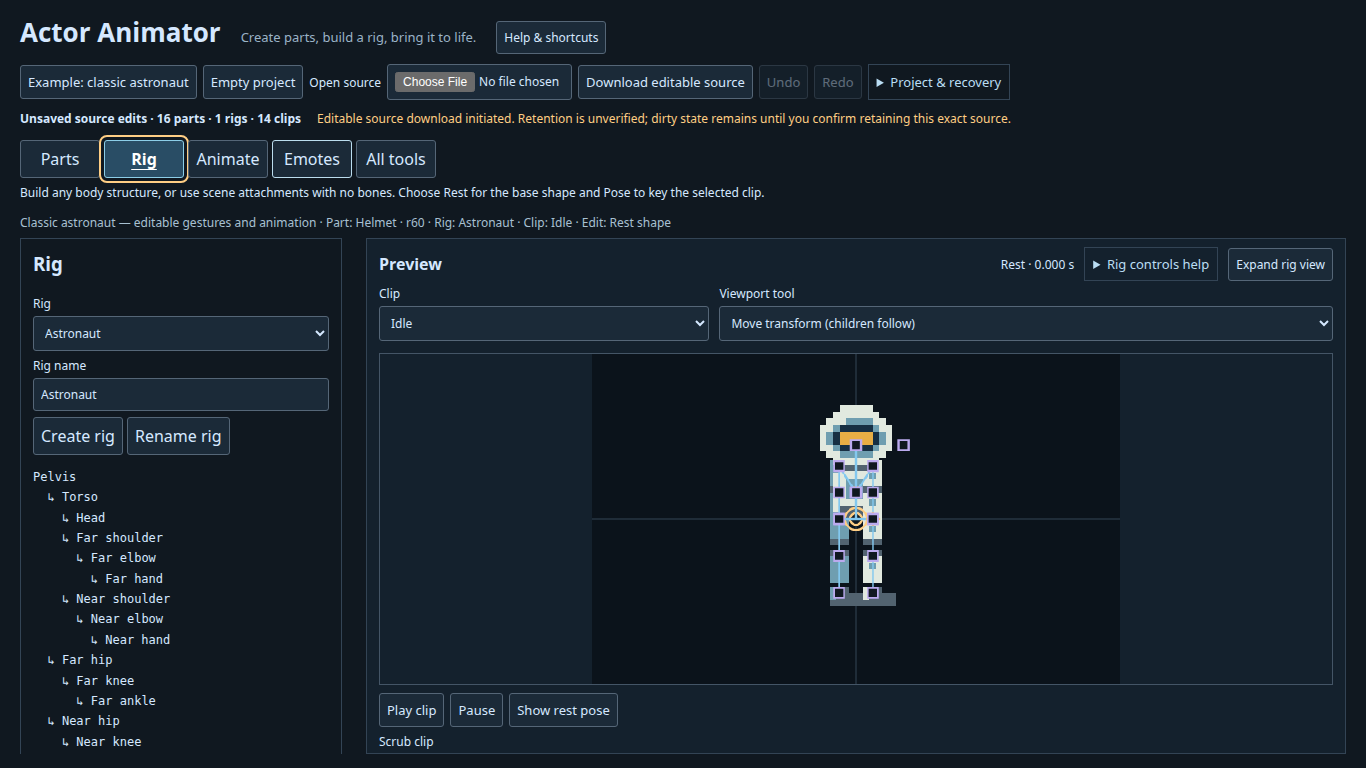
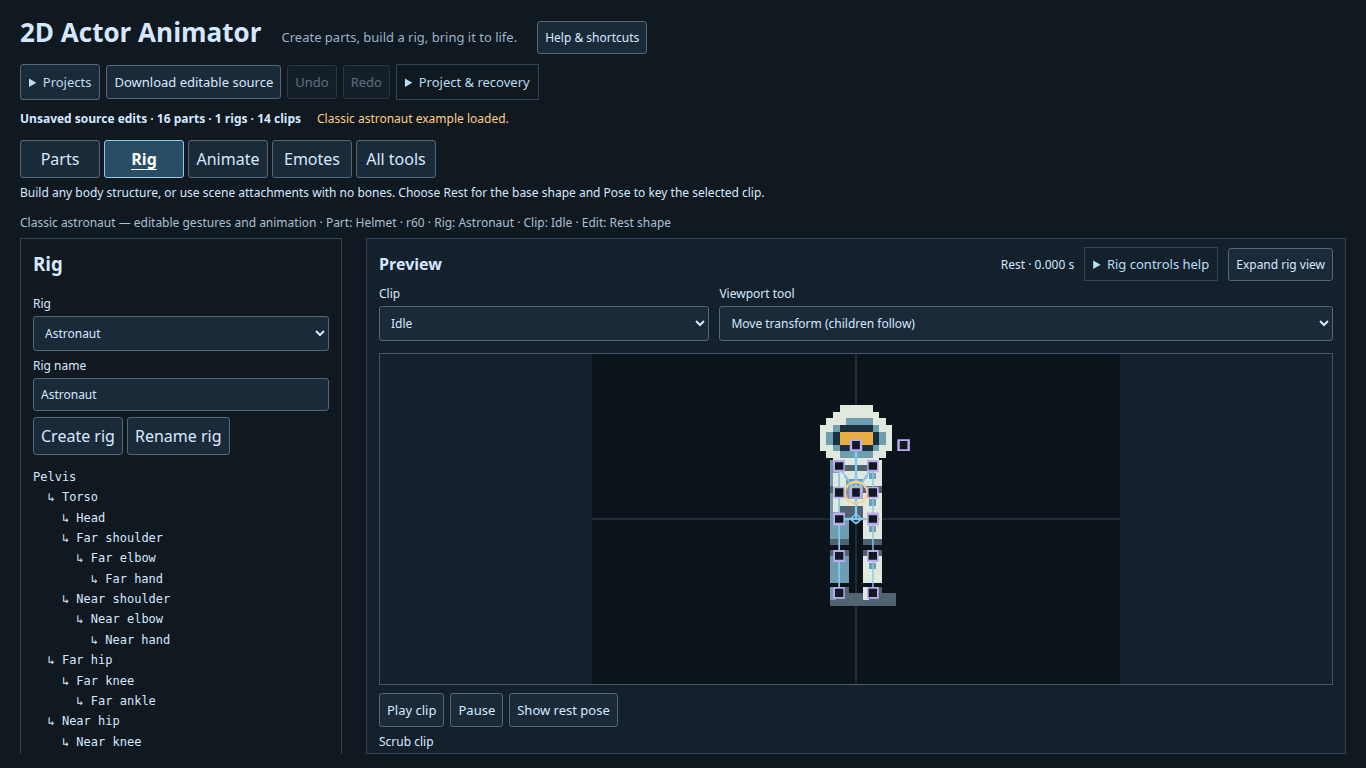
feat: improve preview zoom and name 2D Actor Animator

Changed region(s): [[0.0307, 0.0938, 0.7379, 0.1875], [0.0, 0.0312, 0.4612, 0.0625], [0.6149, 0.625, 0.6457, 0.6875]]

diff --git a/tests/browser/actor-foundation.spec.ts b/tests/browser/actor-foundation.spec.ts
@@ -49,6 +49,7 @@ async function save(page: Page): Promise<{ text: string; source: ActorProject }>
   const text = readFileSync(path!, 'utf8'); return { text, source: JSON.parse(text) as ActorProject };
 }
 async function open(page: Page, source: ActorProject | string, name = 'combined.actorproject') {
+  await page.locator('#preview-zoom').selectOption('16');
   await page.locator('#open').setInputFiles({ name, mimeType: 'application/json', buffer: Buffer.from(typeof source === 'string' ? source : JSON.stringify(source)) });
   await expect(page.locator('#message')).toHaveText('Opened complete editable source.');
 }
@@ -65,7 +66,7 @@ function closeMatrix(actual: number[], expected: number[]) { expect(actual).toHa
 
 test('draw → arbitrary three-node assembly/socket → two poses → intentional revision → combined reopen', async ({ page }, info) => {
   const errors: string[] = [], requests: string[] = []; page.on('pageerror', e => errors.push(e.message)); page.on('request', r => requests.push(r.url()));
-  await page.goto('/actor-tools.html'); await page.getByRole('button', { name: 'All tools', exact: true }).click(); await createPart(page); await dot(page, 1, 0); await dot(page, 1, 1); await dot(page, 2, 1);
+  await page.goto('/actor-tools.html'); await page.getByRole('button', { name: 'All tools', exact: true }).click(); await page.locator('#preview-zoom').selectOption('16'); await createPart(page); await dot(page, 1, 0); await dot(page, 1, 1); await dot(page, 2, 1);
   await field(page, 'pivot-x', .5); await field(page, 'pivot-y', .5); await field(page, 'units', .25); await click(page, 'pivot');
   await field(page, 'rig-name', 'Kite colony'); await click(page, 'add-rig');
   await field(page, 'item-name', 'Whorl / 🪼'); await field(page, 'rest-x', 2); await field(page, 'rest-y', 3); await click(page, 'add-item'); const root = await page.locator('#items').inputValue();
@@ -86,7 +87,7 @@ test('draw → arbitrary three-node assembly/socket → two poses → intentiona
   expect(edited.parts[0]).toEqual(original); expect(edited.parts).toHaveLength(2); expect(edited.attachments).toEqual(assembled.attachments);
   await page.locator('#item-kind').selectOption('attachment'); await expect(page.locator('#revision')).toContainText(`r${original.revision}`); await click(page, 'accept-part');
   const combined = await save(page); expect(combined.source.attachments[0]!.partId).toBe(edited.parts[1]!.id); expect(combined.source.parts[1]!.revision).toBe(original.revision + 1);
-  await expect(page.locator('#state')).toContainText('Unsaved'); await click(page, 'retained'); await disposePage(page); await click(page, 'reopen'); await page.getByRole('button', { name: 'All tools', exact: true }).click(); await open(page, combined.text);
+  await expect(page.locator('#state')).toContainText('Unsaved'); await click(page, 'retained'); await disposePage(page); await click(page, 'reopen'); await page.getByRole('button', { name: 'All tools', exact: true }).click(); await page.locator('#preview-zoom').selectOption('16'); await open(page, combined.text);
   expect((await save(page)).text).toBe(combined.text); await seek(page, 1); closeMatrix(await matrix(page), [0, -4, 4, 0, 344, 128]);
   await page.locator('#assembly').screenshot({ path: info.outputPath('unconventional-assembly.png') });
   expect(errors).toEqual([]); expect(requests.some(u => /universe|world-save|\.wasm/.test(u))).toBe(false); await expect(page.locator('#flight-view')).toHaveCount(0);
@@ -94,7 +95,7 @@ test('draw → arbitrary three-node assembly/socket → two poses → intentiona
 });
 
 test('zero-bone attachments have linear/step boundaries, scrub, authored turns, loop, rest and reset', async ({ page }) => {
-  await page.goto('/actor-tools.html'); await page.getByRole('button', { name: 'All tools', exact: true }).click(); await createPart(page, 2, 2); await dot(page, 0, 0);
+  await page.goto('/actor-tools.html'); await page.getByRole('button', { name: 'All tools', exact: true }).click(); await page.locator('#preview-zoom').selectOption('16'); await createPart(page, 2, 2); await dot(page, 0, 0);
   await page.locator('#item-kind').selectOption('attachment'); await field(page, 'item-name', 'Free lantern'); await click(page, 'add-item'); await click(page, 'add-clip');
   await field(page, 'key-b-x', 4); await field(page, 'key-b-y', 2); await field(page, 'key-b-rotation', 2 * Math.PI); await click(page, 'apply-keys');
   await seek(page, 1); closeMatrix(await matrix(page), [-16, 0, 0, -16, 352, 216]);
@@ -115,7 +116,7 @@ test('independent raster orientation, pivot and full affine shear oracle', async
   source.parts.push({ id: '🪼 / pixels', name: 'Independent colour corners', revision: 1, pivot: [.5, 1], unitsPerPixel: 2,
     artwork: { kind: 'indexed-raster', width: 2, height: 2, palette: ['#ff0000ff', '#00ff00ff', '#0000ffff', '#ffffffff'], layers: [{ id: 'ink', name: 'Corners', opacity: 1, pixels: [0, 1, 2, 3] }] } });
   source.attachments.push({ id: '__proto__', name: 'Free raster', partId: source.parts[0]!.id, drawOrder: 0, transform: { x: 3, y: -2, rotation: Math.PI / 2, scaleX: 2, scaleY: .5 } });
-  await page.goto('/actor-tools.html'); await page.getByRole('button', { name: 'All tools', exact: true }).click(); await open(page, source); closeMatrix(await matrix(page), [0, -64, 16, 0, 344, 248]);
+  await page.goto('/actor-tools.html'); await page.getByRole('button', { name: 'All tools', exact: true }).click(); await page.locator('#preview-zoom').selectOption('16'); await open(page, source); closeMatrix(await matrix(page), [0, -64, 16, 0, 344, 248]);
   const pixels = await page.locator('#actor-preview').evaluate((canvas: HTMLCanvasElement) => { const c = canvas.getContext('2d')!; return [[352, 216], [352, 152], [368, 216]].map(([x, y]) => Array.from(c.getImageData(x!, y!, 1, 1).data)); });
   expect(pixels).toEqual([[255, 0, 0, 255], [0, 255, 0, 255], [0, 0, 255, 255]]);
   await page.locator('#actor-preview').screenshot({ path: info.outputPath('raster-orientation.png') });
@@ -131,7 +132,7 @@ test('independent raster orientation, pivot and full affine shear oracle', async
 });
 
 test('historical schematic and richer source stay intact; no silent truncation or extension rewriting', async ({ page }, info) => {
-  await page.goto('/actor-tools.html'); await page.getByRole('button', { name: 'All tools', exact: true }).click(); await open(page, JSON.parse(readFileSync(new URL('../fixtures/actor-projects/astronaut.project.json', import.meta.url), 'utf8')));
+  await page.goto('/actor-tools.html'); await page.getByRole('button', { name: 'All tools', exact: true }).click(); await page.locator('#preview-zoom').selectOption('16'); await open(page, JSON.parse(readFileSync(new URL('../fixtures/actor-projects/astronaut.project.json', import.meta.url), 'utf8')));
   const schematic = (await save(page)).source; expect(schematic.rigs[0]!.nodes).toHaveLength(6); expect(schematic.provenance).toContain('First-party schematic');
   await page.locator('#preview-zoom').selectOption('128'); await click(page, 'play'); await expect.poll(() => page.evaluate(() => window.actorEvidence.frames)).toBeGreaterThan(2); await click(page, 'pause');
   await page.locator('#actor-preview').screenshot({ path: info.outputPath('schematic-starter.png') });
@@ -147,7 +148,7 @@ test('historical schematic and richer source stay intact; no silent truncation o
 });
 
 test('clock, raster resources and stale callbacks stop on blur, picker, replacement and close', async ({ page }) => {
-  await page.goto('/actor-tools.html'); await page.getByRole('button', { name: 'All tools', exact: true }).click(); await open(page, JSON.parse(readFileSync(new URL('../fixtures/actor-projects/astronaut.project.json', import.meta.url), 'utf8')));
+  await page.goto('/actor-tools.html'); await page.getByRole('button', { name: 'All tools', exact: true }).click(); await page.locator('#preview-zoom').selectOption('16'); await open(page, JSON.parse(readFileSync(new URL('../fixtures/actor-projects/astronaut.project.json', import.meta.url), 'utf8')));
   // Use the production unsaved decisions throughout this lifecycle test.
   page.on('dialog', dialog => dialog.accept());
   await click(page, 'play'); await expect.poll(() => page.evaluate(() => window.actorEvidence.frames)).toBeGreaterThan(2);
@@ -163,11 +164,11 @@ test('clock, raster resources and stale callbacks stop on blur, picker, replacem
   count = await page.evaluate(() => window.actorEvidence.matrices.length);
   await page.evaluate(() => { for (const callback of window.actorEvidence.callbacks) callback(performance.now() + 5000); });
   expect(await page.evaluate(() => window.actorEvidence.matrices.length)).toBe(count); expect(await page.evaluate(() => window.actorEvidence.rasters.every(c => c.width === 0 && c.height === 0))).toBe(true);
-  await click(page, 'reopen'); await page.getByRole('button', { name: 'All tools', exact: true }).click(); await expect(page.locator('#actor-preview')).toHaveAttribute('data-clip', 'rest');
+  await click(page, 'reopen'); await page.getByRole('button', { name: 'All tools', exact: true }).click(); await page.locator('#preview-zoom').selectOption('16'); await expect(page.locator('#actor-preview')).toHaveAttribute('data-clip', 'rest');
 });
 
 test('attributable production preview/input measurements, retained rasters and independent source graph', async ({ page }, info) => {
-  await page.goto('/actor-tools.html'); await page.getByRole('button', { name: 'All tools', exact: true }).click(); await open(page, JSON.parse(readFileSync(new URL('../fixtures/actor-projects/astronaut.project.json', import.meta.url), 'utf8')));
+  await page.goto('/actor-tools.html'); await page.getByRole('button', { name: 'All tools', exact: true }).click(); await page.locator('#preview-zoom').selectOption('16'); await open(page, JSON.parse(readFileSync(new URL('../fixtures/actor-projects/astronaut.project.json', import.meta.url), 'utf8')));
   await page.evaluate(() => { window.actorEvidence.frameTimes = []; window.actorEvidence.imageDrawTimes = []; });
   await click(page, 'play'); await expect.poll(() => page.evaluate(() => window.actorEvidence.frameTimes.length)).toBeGreaterThanOrEqual(90); await click(page, 'pause');
   expect(await page.evaluate(() => window.actorEvidence.rasters.length)).toBe(2);
@@ -195,7 +196,7 @@ test('layerless and unreferenced source is preserved without allocating a previe
     source.parts.push({ id: `blank/${i}`, name: `Blank ${i}`, revision: 1, pivot: [0, 0], unitsPerPixel: 1, artwork: { kind: 'indexed-raster', width: 1024, height: 1024, palette: ['#00000000'], layers: [] } });
     source.attachments.push({ id: `draw/${i}`, name: `Blank ${i}`, partId: `blank/${i}`, drawOrder: i, transform: { x: i, y: 0, rotation: 0, scaleX: 1, scaleY: 1 } });
   }
-  await page.goto('/actor-tools.html'); await page.getByRole('button', { name: 'All tools', exact: true }).click();
+  await page.goto('/actor-tools.html'); await page.getByRole('button', { name: 'All tools', exact: true }).click(); await page.locator('#preview-zoom').selectOption('16');
   await page.evaluate(() => {
     const create = document.createElement; let canvases = 0;
     const instrumented = function(this: Document, ...args: Parameters<typeof create>) { if (args[0] === 'canvas') canvases++; return create.apply(this, args); };

diff --git a/tests/browser/actor-workspace-layout.spec.ts b/tests/browser/actor-workspace-layout.spec.ts
@@ -2,6 +2,7 @@ import { test, expect, type Page } from '@playwright/test';
 import { mkdirSync, readFileSync } from 'node:fs';
 import { resolve } from 'node:path';
 import { pathToFileURL } from 'node:url';
+import type { ActorProject } from '@actor-animator/types';
 import { click, open, save, showProjectDetails, showProjectOptions } from './actor-animator-authoring';
 
 test.beforeEach(async ({ browser }, info) => console.log(`${info.project.name} actual browser ${browser.version()}`));
@@ -12,6 +13,76 @@ async function screenshot(page: Page, name: string, engine: string) {
     await page.screenshot({ path: `test-results/evidence/workspace-layout-demo/${name}.png` });
   }
 }
+function zoomSpecimen(): ActorProject {
+  const source = JSON.parse(readFileSync('tests/fixtures/actor-projects/empty.project.json', 'utf8')) as ActorProject;
+  source.name = 'Independent preview scale specimen';
+  source.parts = [{ id: 'zoom:part', name: 'Half-unit square', revision: 1, pivot: [.25, .25], unitsPerPixel: .25,
+    artwork: { kind: 'indexed-raster', width: 2, height: 2, palette: ['#00000000', '#ff00ffff'], layers: [{ id: 'zoom:layer', name: 'Ink', opacity: 1, pixels: [1, 1, 1, 1] }] } }];
+  source.attachments = [{ id: 'zoom:art', name: 'Square', partId: 'zoom:part', drawOrder: 0, transform: { x: 0, y: 0, rotation: 0, scaleX: 1, scaleY: 1 } }];
+  source.extensions['foreign:zoom'] = { untouched: [true, .125, 'retain'] };
+  return source;
+}
+test('preview starts at128, keeps64 and renders larger zooms without source or raster churn', async ({ page }) => {
+  await page.addInitScript(() => {
+    const rasters = new Set<CanvasImageSource>(); Object.assign(window, { zoomRasters: rasters });
+    const draw = CanvasRenderingContext2D.prototype.drawImage;
+    CanvasRenderingContext2D.prototype.drawImage = function(this: CanvasRenderingContext2D, ...args: Parameters<typeof draw>) {
+      if (this.canvas.id === 'actor-preview') rasters.add(args[0]);
+      return draw.apply(this, args);
+    } as typeof draw;
+  });
+  await page.goto('/'); await expect(page).toHaveTitle('2D Actor Animator');
+  await expect(page.getByRole('heading', { name: '2D Actor Animator', exact: true })).toBeVisible();
+  await expect(page.locator('#preview-zoom')).toHaveValue('128');
+  await open(page, JSON.stringify(zoomSpecimen()));
+  const source = await save(page), undo = await page.locator('#undo').isEnabled();
+  const recovery = await page.evaluate(() => localStorage.getItem('actor-animator:draft:1'));
+  const coloured = () => page.locator('#actor-preview').evaluate((c: HTMLCanvasElement) => {
+    const pixels = c.getContext('2d')!.getImageData(0, 0, c.width, c.height).data; let count = 0;
+    for (let i = 0; i < pixels.length; i += 4) if (pixels[i] === 255 && pixels[i + 1] === 0 && pixels[i + 2] === 255 && pixels[i + 3] === 255) count++;
+    return count;
+  });
+  // Independent physical size:2pixels × .25project units/pixel = .5unit square.
+  expect(await coloured()).toBe(64 * 64);
+  await page.getByText('View & playback options', { exact: true }).click();
+  const scale = page.getByRole('combobox', { name: 'Preview pixels per unit', exact: true });
+  for (const value of ['1', '4', '16', '32', '64', '128', '256', '512', '1024']) await expect(scale.locator('option').filter({ hasText: new RegExp(`^${value}$`) })).toHaveCount(1);
+  for (const value of [64, 256, 512, 1024, 128]) {
+    await scale.selectOption(String(value));
+    expect(await coloured()).toBe(Math.min(value / 2, 640) * Math.min(value / 2, 400));
+    expect(await page.locator('#undo').isEnabled()).toBe(undo);
+  }
+  expect(await page.evaluate(() => (window as unknown as { zoomRasters: Set<CanvasImageSource> }).zoomRasters.size)).toBe(1);
+  expect(await page.evaluate(() => localStorage.getItem('actor-animator:draft:1'))).toBe(recovery);
+  expect(await save(page)).toBe(source);
+});
+test('64,128and256 keep viewport hit mapping and exact source undo while showing useful closeups', async ({ page }, info) => {
+  await page.setViewportSize({ width: 1366, height: 768 }); await page.goto('/'); await open(page, JSON.stringify(zoomSpecimen()));
+  await click(page, 'task-button-rig'); await page.locator('#item-kind').selectOption('attachment');
+  await page.getByText('View & playback options', { exact: true }).click();
+  const source = await save(page), scale = page.locator('#preview-zoom');
+  for (const value of [64, 128, 256]) {
+    await scale.selectOption(String(value));
+    await page.locator('#actor-preview').scrollIntoViewIfNeeded();
+    await page.locator('#preview-panel').evaluate(el => { el.scrollTop = 0; });
+    const r = (await page.locator('#actor-preview').boundingBox())!, fit = Math.min(r.width / 640, r.height / 400);
+    const x = r.x + r.width / 2, y = r.y + r.height / 2;
+    await page.mouse.move(x, y); await page.mouse.down(); await page.mouse.move(x + 20, y - 12, { steps: 3 }); await page.mouse.up();
+    const edited = await save(page), t = (JSON.parse(edited) as ActorProject).attachments[0]!.transform;
+    expect(Math.abs(t.x - 20 / (value * fit)) * value * fit).toBeLessThan(.01);
+    expect(Math.abs(t.y - 12 / (value * fit)) * value * fit).toBeLessThan(.01);
+    await click(page, 'undo'); expect(await save(page)).toBe(source);
+    await click(page, 'redo'); expect(await save(page)).toBe(edited); await click(page, 'undo');
+  }
+  await save(page); await click(page, 'retained'); await click(page, 'classic-astronaut');
+  if (info.project.name === 'chromium') {
+    mkdirSync('test-results/evidence/preview-usability-demo', { recursive: true });
+    for (const value of [64, 128, 256]) {
+      await scale.selectOption(String(value));
+      await page.screenshot({ path: `test-results/evidence/preview-usability-demo/actor-${value}.png` });
+    }
+  }
+});
 test('project toolbar keeps its geometry and disclosure state across All tools and other tasks', async ({ page }, info) => {
   await page.setViewportSize({ width: 1366, height: 768 }); await page.goto('/'); await click(page, 'classic-astronaut');
   const source = await save(page), toolbar = page.locator('nav[aria-label=Project]');
@@ -104,7 +175,7 @@ test('rigging gets a larger default canvas and expandable view without source, f
 });
 test('offline HTML includes the roomy rig view and restores the regular task workspace', async ({ page }, info) => {
   await page.setViewportSize({ width: 1366, height: 646 });
-  await page.goto(pathToFileURL(resolve('dist/Actor Animator.html')).href); await click(page, 'classic-astronaut');
+  await page.goto(pathToFileURL(resolve('dist/2D Actor Animator.html')).href); await click(page, 'classic-astronaut');
   await expect(page.locator('#astronaut, #close')).toHaveCount(0);
   await click(page, 'task-button-rig'); const baseline = await save(page);
   expect((await box(page, 'actor-preview')).height).toBeGreaterThanOrEqual(260);

diff --git a/tests/browser/actor-skeleton-editor.spec.ts b/tests/browser/actor-skeleton-editor.spec.ts
@@ -48,6 +48,7 @@ async function save(page: Page): Promise<{ text: string; source: ActorProject }>
   const text = readFileSync(path!, 'utf8'); return { text, source: JSON.parse(text) as ActorProject };
 }
 async function open(page: Page, source: ActorProject | string) {
+  await page.locator('#preview-zoom').selectOption('16');
   await page.locator('#open').setInputFiles({ name: 'skeleton.actorproject', mimeType: 'application/json', buffer: Buffer.from(typeof source === 'string' ? source : JSON.stringify(source)) });
   await expect(page.locator('#message')).toHaveText('Opened complete editable source.');
 }
@@ -73,7 +74,7 @@ test('six-limb creature with segmented tail, tool socket and detached accessory:
   // Generated end-to-end authoring includes dozens of validated source operations.
   test.setTimeout(120_000);
   const errors: string[] = []; page.on('pageerror', e => errors.push(e.message));
-  await page.goto('/actor-tools.html'); await page.getByRole('button', { name: 'All tools', exact: true }).click(); await part(page, 'Chitin plate');
+  await page.goto('/actor-tools.html'); await page.getByRole('button', { name: 'All tools', exact: true }).click(); await page.locator('#preview-zoom').selectOption('16'); await part(page, 'Chitin plate');
   await field(page, 'rig-name', 'Skitterling'); await click(page, 'add-rig');
   await add(page, 'node', 'Carapace', null, { rotation: .1 });
   for (let i = 0; i < 3; i++) {
@@ -163,7 +164,7 @@ test('six-limb creature with segmented tail, tool socket and detached accessory:
 
   // Save, close, reopen: byte-identical source and identical drawn poses (constraint + clip at t=1).
   await field(page, 'seek-time', 1); await click(page, 'seek'); const drawn = await page.evaluate(() => window.skeletonEvidence.matrices.slice(-7));
-  await click(page, 'retained'); await disposePage(page); await click(page, 'reopen'); await page.getByRole('button', { name: 'All tools', exact: true }).click(); await open(page, deleted.text);
+  await click(page, 'retained'); await disposePage(page); await click(page, 'reopen'); await page.getByRole('button', { name: 'All tools', exact: true }).click(); await page.locator('#preview-zoom').selectOption('16'); await open(page, deleted.text);
   expect((await save(page)).text).toBe(deleted.text);
   await page.locator('#clips').selectOption({ label: 'Scuttle' }); await field(page, 'seek-time', 1); await click(page, 'seek');
   expect(await page.evaluate(() => window.skeletonEvidence.matrices.slice(-7))).toEqual(drawn);
@@ -178,7 +179,7 @@ test('six-limb creature with segmented tail, tool socket and detached accessory:
 });
 
 test('rejected structural edits are atomic with useful diagnostics; stale reviews and cancelled files change nothing', async ({ page }) => {
-  await page.goto('/actor-tools.html'); await page.getByRole('button', { name: 'All tools', exact: true }).click(); await part(page, 'Shard');
+  await page.goto('/actor-tools.html'); await page.getByRole('button', { name: 'All tools', exact: true }).click(); await page.locator('#preview-zoom').selectOption('16'); await part(page, 'Shard');
   await click(page, 'add-rig');
   await add(page, 'node', 'Stretch', null, { scaleX: 2 });
   await add(page, 'node', 'Turned', null, { rotation: Math.PI / 4 });
@@ -212,7 +213,7 @@ test('rejected structural edits are atomic with useful diagnostics; stale review
 });
 
 test('multiple rigs/roots and a zero-bone project use the same tools; old Phase 1 sources reopen unchanged', async ({ page }, info) => {
-  await page.goto('/actor-tools.html'); await page.getByRole('button', { name: 'All tools', exact: true }).click(); await part(page, 'Glow');
+  await page.goto('/actor-tools.html'); await page.getByRole('button', { name: 'All tools', exact: true }).click(); await page.locator('#preview-zoom').selectOption('16'); await part(page, 'Glow');
   // Zero-bone: scene attachments only, pose-mode keying works without a rig.
   await add(page, 'attachment', 'Free glow', null, { x: 1 }); await add(page, 'attachment', 'Second glow', null, { x: -1 }, 1);
   await click(page, 'add-clip'); await page.locator('#edit-mode').selectOption('pose');
@@ -261,7 +262,7 @@ test('constraint preview clock, blur and disposal; measured edited/constraint wo
     clipTracks.push({ id: `t${c}`, target: { kind: 'node', rigId: 'swarm', nodeId: `goal-${c}` }, interpolation: 'linear', keys: [{ time: 0, value: rig.nodes.at(-9)!.rest }, { time: 4, value: { ...rig.nodes.at(-9)!.rest, x: -rig.nodes.at(-9)!.rest.x } }] });
   }
   source.rigs.push(rig); source.clips.push({ id: 'orbit', name: 'Orbit goals', duration: 4, playback: 'loop', tracks: clipTracks });
-  await page.goto('/actor-tools.html'); await page.getByRole('button', { name: 'All tools', exact: true }).click(); await open(page, source); await page.locator('#clips').selectOption({ label: 'Orbit goals' });
+  await page.goto('/actor-tools.html'); await page.getByRole('button', { name: 'All tools', exact: true }).click(); await page.locator('#preview-zoom').selectOption('16'); await open(page, source); await page.locator('#clips').selectOption({ label: 'Orbit goals' });
   await page.evaluate(() => { window.skeletonEvidence.frameTimes = []; });
   await click(page, 'play'); await expect.poll(() => page.evaluate(() => window.skeletonEvidence.frameTimes.length)).toBeGreaterThanOrEqual(90);
   await page.evaluate(() => window.dispatchEvent(new Event('blur')));

diff --git a/apps/web/src/actor-tools/assembly-panel.ts b/apps/web/src/actor-tools/assembly-panel.ts
@@ -45,7 +45,7 @@ export class AssemblyPanel {
       <details><summary>Two-key shortcut</summary><label>Key A time<input id="key-a-time" type="number" step="any" value="0"></label>${transformFields('key-a', 'Key A')}
       <label>Key B time<input id="key-b-time" type="number" step="any" value="2"></label>${transformFields('key-b', 'Key B')}
       <button id="apply-keys">Apply two keys</button><p>Complete local absolute transforms. Other tracks and clips stay intact. Tracks with more than two keys can be previewed; this small editor preserves them.</p></details></section></div>
-      <div id="animation-panel"></div><div id="cel-panel"></div><div id="emote-panel"></div><section id="preview-panel" aria-label="Actor preview workspace"><h2>Preview</h2><p id="preview-help"></p><nav aria-label="Preview"><button id="play">Play clip</button><button id="pause">Pause</button><button id="rest">Show rest pose</button><button id="reset">Reset clip to start</button><label>Preview pixels per unit<select id="preview-zoom"><option>1</option><option>4</option><option selected>16</option><option>64</option><option>128</option></select></label></nav>
+      <div id="animation-panel"></div><div id="cel-panel"></div><div id="emote-panel"></div><section id="preview-panel" aria-label="Actor preview workspace"><h2>Preview</h2><p id="preview-help"></p><nav aria-label="Preview"><button id="play">Play clip</button><button id="pause">Pause</button><button id="rest">Show rest pose</button><button id="reset">Reset clip to start</button><label>Preview pixels per unit<select id="preview-zoom"><option>1</option><option>4</option><option>16</option><option>32</option><option>64</option><option selected>128</option><option>256</option><option>512</option><option>1024</option></select></label></nav>
       <div id="rig-viewport-tools"><label>Viewport tool<select id="viewport-tool"><option value="move">Move transform (children follow)</option><option value="rotate">Rotate local transform</option><option value="joint">Move rest joint (preserve children)</option></select></label><p>Click joints, bones or artwork to select. Drag a pivot to move; Rotate uses the circle to its right. Alt-click cycles overlaps. Arrow keys move 1 CSS pixel; Shift moves 10. Escape cancels. Numeric controls remain available.</p><output id="viewport-status" role="status">Rest edits the base shape; Pose keys the selected clip. Positions: project units, x right / y up. Rotation: CCW radians.</output></div>
       <div class="preview-viewport"><canvas id="actor-preview" tabindex="0" width="640" height="400" aria-label="Actor preview"></canvas></div>
       <label>Scrub clip<input id="scrub" type="range" min="0" max="2" step="0.001" value="0"></label><label>Seek seconds<input id="seek-time" type="number" step="any" value="0"></label><button id="seek">Seek clip</button><output id="preview-state">Rest · 0 s</output></section>`;
@@ -57,6 +57,7 @@ export class AssemblyPanel {
       this.animation?.timeline.time();
       this.animation?.curves.time();
     }, message => host.message(message));
+    this.preview.zoom(this.num('preview-zoom'));
     this.skeleton = new SkeletonControls(this.el('skeleton'), host, this.preview,
       () => ({ rigId: this.rigId, kind: this.value('item-kind') as 'node' | 'socket' | 'attachment', itemId: this.itemId }),
       (kind, id) => { this.el<HTMLSelectElement>('item-kind').value = kind; this.itemId = id; this.render(); });

diff --git a/tests/release/pages.spec.ts b/tests/release/pages.spec.ts
@@ -4,9 +4,9 @@ import { createHash } from 'node:crypto';
 test('strict project path refresh, asset requests, relative demos and exact offline download',async({page,request,browser},info)=>{
   console.log(`${info.project.name} actual browser ${browser.version()}`);
   const errors:string[]=[],bad:string[]=[];page.on('pageerror',e=>errors.push(e.message));page.on('response',r=>{if(r.status()>=400)bad.push(r.url());});
-  await page.goto('./');await expect(page.getByRole('heading',{name:'Actor Animator',exact:true})).toBeVisible();await page.reload();await expect(page.locator('#getting-started')).toBeVisible();
+  await page.goto('./');await expect(page.getByRole('heading',{name:'2D Actor Animator',exact:true})).toBeVisible();await page.reload();await expect(page.locator('#getting-started')).toBeVisible();
   const [download]=await Promise.all([page.waitForEvent('download'),page.getByRole('link',{name:'Download offline HTML'}).click()]);
-  const bytes=readFileSync((await download.path())!);expect(createHash('sha256').update(bytes).digest('hex')).toBe(createHash('sha256').update(readFileSync('dist/Actor Animator.html')).digest('hex'));
+  const bytes=readFileSync((await download.path())!);expect(createHash('sha256').update(bytes).digest('hex')).toBe(createHash('sha256').update(readFileSync('dist/2D Actor Animator.html')).digest('hex'));
   for(const [path,marker]of [['runtime-example/','#status'],['rendering-example/','#report'],['spacelab-example/','#report'],['sheet-example/','#status']] as const){await page.goto('./'+path);await expect(page.locator(marker)).toBeVisible();if(path==='runtime-example/'){await page.getByRole('link',{name:'Open the authoring editor'}).click();await expect(page.locator('#save')).toBeVisible();}if(path==='rendering-example/'){await expect(page.locator('#status')).toContainText('Prepared webgl2');await page.locator('#backend').selectOption('canvas2d');await expect(page.locator('#report')).toContainText('canvas2d');}}
   expect(errors).toEqual([]);expect(bad).toEqual([]);
   for(const path of ['/','/2d-actor-animator/not-a-page','/2d-actor-animator/package.json','/2d-actor-animator/.git/config'])expect((await request.get(path)).status()).toBe(404);

diff --git a/examples/sheet/index.html b/examples/sheet/index.html
@@ -1,7 +1,7 @@
 <!doctype html>
 <html lang="en"><meta charset="utf-8"><meta name="viewport" content="width=device-width"><title>Sampled actor sheet consumer</title>
 <style>body{font:16px system-ui;background:#101b26;color:#e4edf5;max-width:950px;margin:2rem auto;padding:1rem}label{display:inline-block;margin:.7rem}input,button{font:inherit}canvas{max-width:100%;background:repeating-conic-gradient(#324050 0% 25%,#19232d 0% 50%) 0 / 16px 16px;image-rendering:pixelated}pre{white-space:pre-wrap}a{color:#83ccff}</style>
-<h1>Sampled actor sheet consumer</h1><p>Open the actual PNG and matching sheet /1 metadata downloaded from <a href="../">Actor Animator</a>. This independent example reads flattened output only. Keep the editable original separately. Separate files carry no cryptographic pairing; verify them together.</p>
+<h1>Sampled actor sheet consumer</h1><p>Open the actual PNG and matching sheet /1 metadata downloaded from <a href="../">2D Actor Animator</a>. This independent example reads flattened output only. Keep the editable original separately. Separate files carry no cryptographic pairing; verify them together.</p>
 <label>Sheet metadata <input id="metadata" type="file" accept=".json"></label><label>Sheet PNG <input id="png" type="file" accept="image/png"></label>
 <p id="status" role="status">Load metadata, then its PNG.</p><label>Time (seconds, may be negative)<input id="time" type="number" step="any" value="0"></label><label>View pixels per project unit<input id="scale" type="number" step="any" value="32"></label><button id="sample">Show held frame</button>
 <p>The cross is the project origin/pivot. X points right; Y points up. The view origin is (256,192) pixels. Frame pixels use metadata density; calibration is stated in metres per project unit. There is no animation clock or rig.</p>

diff --git a/tests/browser/actor-animator.spec.ts b/tests/browser/actor-animator.spec.ts
@@ -80,7 +80,7 @@ test('the production preview draws the shared blend result with the independentl
   const s = markerSource(); s.actions = []; s.requiredCapabilities.push('spacelab:animation-composition/1');
   s.clips = [0,10,20].map((x,i) => ({ id: `c${i}`, name: `C${i}`, duration: 2, playback: 'once', tracks: [{ id: 't', target: { kind: 'attachment', attachmentId: 'example:drawing' }, interpolation: 'linear', keys: [{ time: 0, value: { x, y:0, rotation:0, scaleX:1, scaleY:1 } }, { time: 2, value: { x:x+2, y:0, rotation:0, scaleX:1, scaleY:1 } }] }] }));
   s.animators = [{ id:'a',name:'A',layers:[{id:'l',name:'L',blend:'override',weight:1,initialStateId:'s0',defaultTransition:{duration:2,priority:0},states:s.clips.map((c,i)=>({id:`s${i}`,name:`S${i}`,clipId:c.id,rate:1})),transitions:[]}] }];
-  await page.goto('/actor-tools.html'); await page.getByRole('button', { name: 'All tools', exact: true }).click(); await open(page,JSON.stringify(s));
+  await page.goto('/actor-tools.html'); await page.getByRole('button', { name: 'All tools', exact: true }).click(); await open(page,JSON.stringify(s)); await page.locator('#preview-zoom').selectOption('16');
   for (const [time,name] of [[0,'S1'],[.5,'S2']] as const) { await page.locator('#animation-states').selectOption({label:name}); await field(page,'request-time',time); await click(page,'append-request'); }
   await field(page,'animator-time',1); await click(page,'seek-animator');
   const drawn = await page.evaluate(() => (window as unknown as {animationDraws:number[][]}).animationDraws);

diff --git a/tests/unit/release-files.test.ts b/tests/unit/release-files.test.ts
@@ -8,8 +8,8 @@ describe('publication boundaries',()=>{
     for(const p of ['apps/web/src/actor-tools/main.ts','tests/fixtures/actor-projects/empty.project.json','LICENSE','scripts/stage-pages.mjs','.github/workflows/pages.yml','docs/images/character.png'])expect(sourcePath(p),p).toBe(true);
   });
   test('Pages accepts only deliberate served content',()=>{
-    for(const p of ['README.md','package-lock.json','test-results/a.png','runtime/secret.txt','assets/source.js.map','runtime/types/unknown/src/x.d.ts','downloads/project.actorproject'])expect(sitePath(p),p).toBe(false);
-    for(const p of ['index.html','downloads/Actor Animator.html','runtime/core.js','runtime/types/runtime/src/index.d.ts','rendering-example/package/webgl2.js'])expect(sitePath(p),p).toBe(true);
+    for(const p of ['README.md','package-lock.json','test-results/a.png','runtime/secret.txt','assets/source.js.map','runtime/types/unknown/src/x.d.ts','downloads/project.actorproject','downloads/Actor Animator.html'])expect(sitePath(p),p).toBe(false);
+    for(const p of ['index.html','downloads/2D Actor Animator.html','runtime/core.js','runtime/types/runtime/src/index.d.ts','rendering-example/package/webgl2.js'])expect(sitePath(p),p).toBe(true);
   });
   test('machine paths and credential values are detected without echoing values',()=>{
     const secret='gh'+'p_'+'a'.repeat(36);

diff --git a/apps/web/src/actor-tools/main.ts b/apps/web/src/actor-tools/main.ts
@@ -25,7 +25,7 @@ export class ActorEditor {
   readonly assembly: AssemblyPanel;
   readonly workspace: ActorWorkspace;
   constructor(readonly root: HTMLElement) {
-    root.innerHTML = `<header><h1>Actor Animator</h1><p>Create parts, build a rig, bring it to life.</p><button id="getting-started" type="button">Help &amp; shortcuts</button></header>
+    root.innerHTML = `<header><h1>2D Actor Animator</h1><p>Create parts, build a rig, bring it to life.</p><button id="getting-started" type="button">Help &amp; shortcuts</button></header>
       <nav aria-label="Project"><details id="project-library"><summary>Projects</summary><div role="group" aria-label="Project choices">
       <section aria-labelledby="new-project-title"><h2 id="new-project-title">New project</h2><button id="new">Empty project</button></section>
       <section aria-labelledby="open-project-title"><h2 id="open-project-title">Open project</h2><label class="file">Open source<input id="open" type="file" accept=".json,.actorproject"></label></section>

diff --git a/apps/standalone/index.html b/apps/standalone/index.html
@@ -3,13 +3,13 @@
 <head>
   <meta charset="UTF-8">
   <meta name="viewport" content="width=device-width, initial-scale=1">
-  <meta name="description" content="Actor Animator — offline 2D skeletal animation editor">
-  <title>Actor Animator</title>
+  <meta name="description" content="2D Actor Animator — offline 2D skeletal animation editor">
+  <title>2D Actor Animator</title>
   <style>/* ACTOR_STYLES */</style>
 </head>
 <body>
   <main id="actor-tools"></main>
-  <noscript>Enable JavaScript in your browser to open Actor Animator.</noscript>
+  <noscript>Enable JavaScript in your browser to open 2D Actor Animator.</noscript>
   <details id="offline-notices" style="margin:1rem;max-width:48rem"><summary>License &amp; credits</summary>
     <p>Copyright (c) 2026 Spacelab Contributors · MIT licensed.</p>
     <details id="offline-license"><summary>MIT license</summary><pre style="white-space:pre-wrap">ACTOR_LICENSE</pre></details>

diff --git a/tests/browser/actor-launcher.spec.ts b/tests/browser/actor-launcher.spec.ts
@@ -9,11 +9,11 @@ let scratch: string;
 test.beforeEach(async ({ browser }, info) => {
   console.log(`${info.project.name} actual browser ${browser.version()}, isolated file:// HTML`);
   scratch = mkdtempSync(join(tmpdir(), 'actor-html-launcher-'));
-  cpSync('dist/Actor Animator.html', join(scratch, 'Launch Actor Animator.html'));
+  cpSync('dist/2D Actor Animator.html', join(scratch, 'Launch 2D Actor Animator.html'));
 });
 test.afterEach(() => rmSync(scratch, { recursive: true, force: true }));
 async function launch(page: Page) {
-  const url = pathToFileURL(join(scratch, 'Launch Actor Animator.html')).href;
+  const url = pathToFileURL(join(scratch, 'Launch 2D Actor Animator.html')).href;
   const errors: string[] = [], dependencies: string[] = [];
   page.on('pageerror', e => errors.push(e.message));
   page.on('request', r => { if (r.url() !== url && !r.url().startsWith('blob:')) dependencies.push(r.url()); });

diff --git a/tests/release/creator.spec.ts b/tests/release/creator.spec.ts
@@ -18,7 +18,7 @@ for(const delivery of ['hosted','offline'] as const)for(const actor of ['charact
     await page.setViewportSize({width:1366,height:768});
     let scratch='';const errors:string[]=[],network:string[]=[];page.on('pageerror',e=>errors.push(e.message));
     page.on('request',r=>{if(/^https?:/.test(r.url()))network.push(r.url());});
-    if(delivery==='offline') {scratch=mkdtempSync(join(tmpdir(),'actor-release-offline-'));cpSync('_site/downloads/Actor Animator.html',join(scratch,'Editor.html'));await page.goto(pathToFileURL(join(scratch,'Editor.html')).href);}
+    if(delivery==='offline') {scratch=mkdtempSync(join(tmpdir(),'actor-release-offline-'));cpSync('_site/downloads/2D Actor Animator.html',join(scratch,'Editor.html'));await page.goto(pathToFileURL(join(scratch,'Editor.html')).href);}
     else await page.goto('./');
     try {
       if(actor==='character') {
